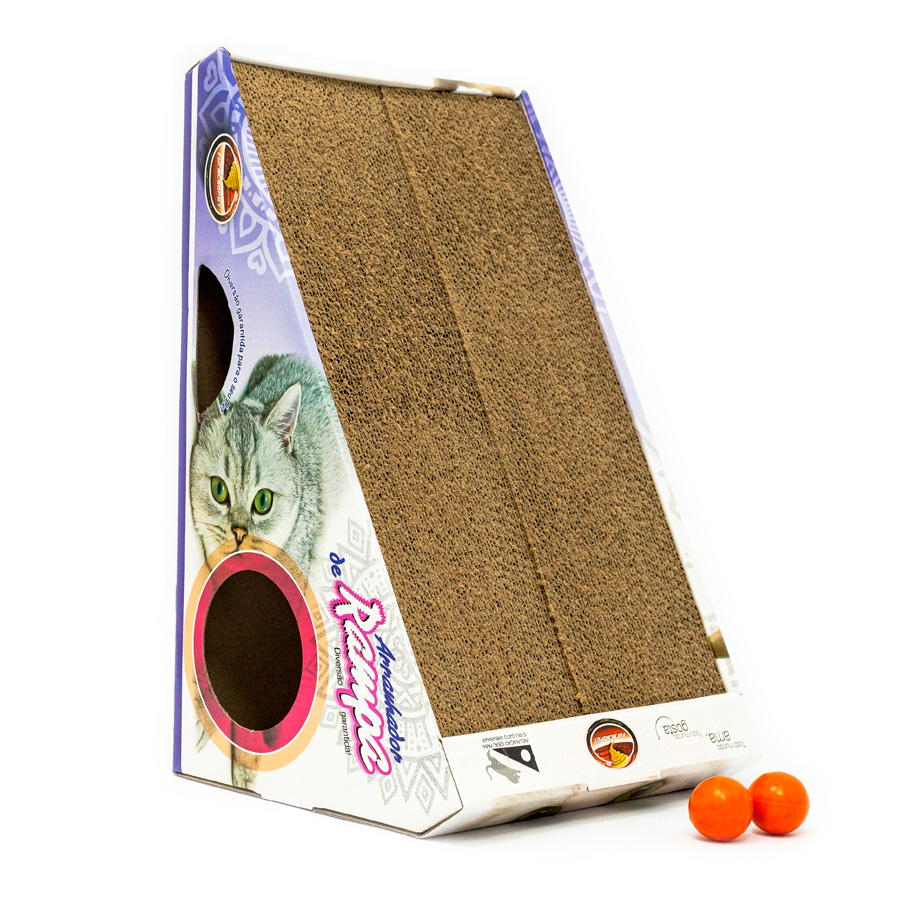
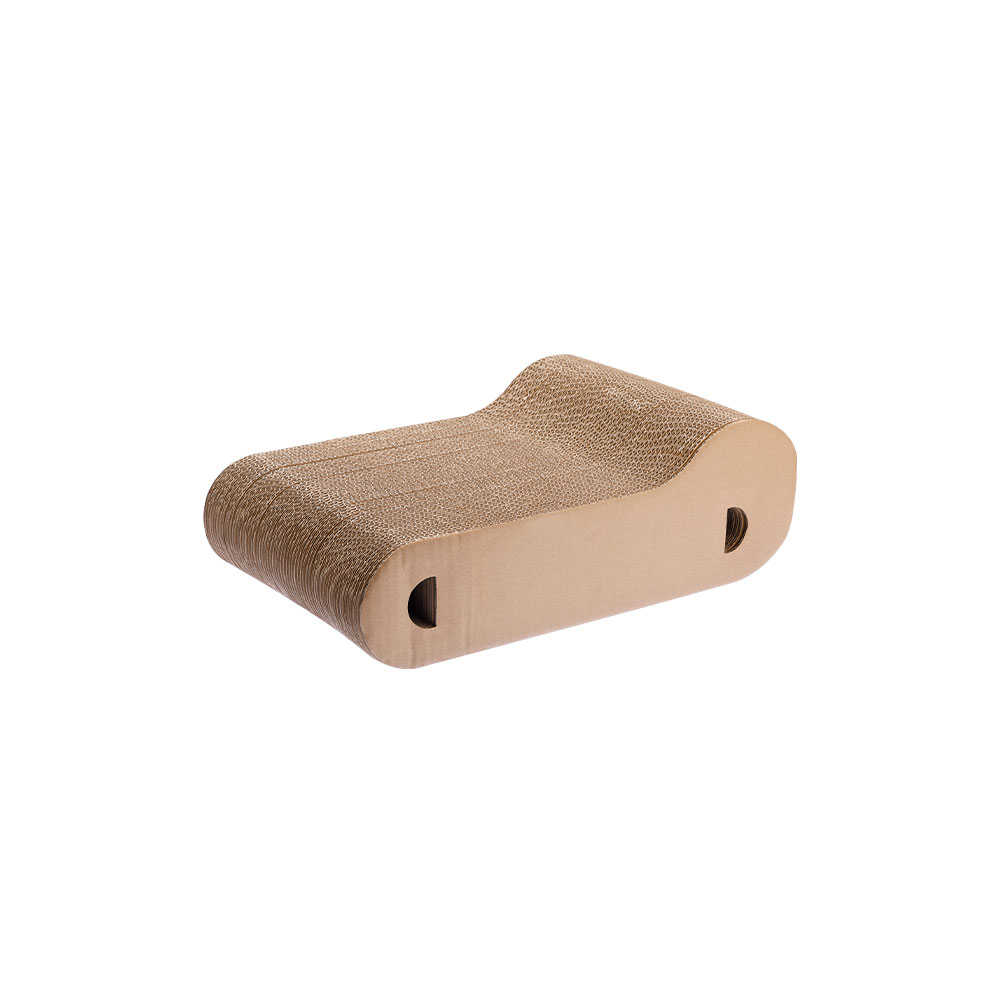
feat: add cores e fontes

diff --git a/style/style.css b/style/style.css
@@ -2,10 +2,21 @@ body {
     margin: 0px;
 }
 
+/*Atribindo fontes especificas ao projeto*/
+@font-face{
+    font-family: "Alice";
+    src: url("../fonts/Alice/Alice-Regular.ttf");
+}
+
+@font-face{
+    font-family: "Roca-Two";
+    src: url("../fonts/roca-two-regular-maisfontes.e2ac/roca-two-regular.ttf");
+}
+
 /*Seção de Serviços*/
 .servicos-container {
     height: 70vh;
-    background-color: #f7d8ff;
+    background-color: #e2a9f1;
     padding-bottom: 10px;
     padding-left: 40px;
     padding-right: 40px;
@@ -18,6 +29,10 @@ body {
 }
 
 .title-servicos {
+    font-family: "Roca-Two";
+    font-size: 40px;
+    font-weight: bold;
+    color: #a94b7c;
     margin: 0px;
     display: flex;
     justify-content: center;
@@ -69,13 +84,18 @@ body {
     justify-content: center;
 }
 
-.card-text-container p {
+.card-text {
     text-align: justify;
     margin: 10px;
+    font-family: "Alice";
+    font-size: 20px;
 }
 
 .card-title {
-    font-weight: bold;
+    text-align: justify;
+    margin: 10px;
+    font-family: "Roca-Two";
+    font-size: 40px;
 }
 
 /*Botões utilizados para passar o carrossel*/
@@ -101,7 +121,7 @@ body {
 
 .produtos-container {
     height: 120vh;
-    background-color: rgb(95, 95, 95);
+    background-color: #f7d8ff;
     padding-bottom: 10px;
     padding-left: 40px;
     padding-right: 40px;
@@ -114,6 +134,10 @@ body {
 }
 
 .title-produtos {
+    font-family: "Roca-Two";
+    font-size: 40px;
+    font-weight: bold;
+    color: #a94b7c;
     margin: 0px;
     display: flex;
     justify-content: center;
@@ -122,6 +146,8 @@ body {
 
 .subtitle-produtos {
     align-self: flex-start; /*move o subtitulo para a esquerda */
+    font-family: "Roca-Two";
+    font-size: 25px;
     margin-top: 30px;
     margin-bottom: 10px;
 }
@@ -163,14 +189,20 @@ body {
 }
 
 .card-produto img {
+    margin: 10px;
     height: 70%;
     width: 100%;
     object-fit: cover;
 }
 
+.card-produto p {
+    font-family: "Roca-Two";
+    font-size: 20px;
+}
+
 .parceiros-container {
     height: 40vh;
-    background-color: #f7d8ff;
+    background-color: #e2a9f1;
     padding-bottom: 10px;
     padding-left: 40px;
     padding-right: 40px;
@@ -210,4 +242,15 @@ body {
     height: 80%;
     width: 80%;
     object-fit: cover;
+}
+
+.title-parceiros {
+    font-family: "Roca-Two";
+    font-size: 40px;
+    font-weight: bold;
+    color: #a94b7c;
+    margin: 0px;
+    display: flex;
+    justify-content: center;
+    align-items: center;
 }

diff --git a/index.html b/index.html
@@ -26,7 +26,7 @@
                 </div>
                 <div class="card-text-container">
                     <p class="card-title">Banho</p>
-                    <p>
+                    <p class="card-text">
                         Higiene completa para o seu pet com produtos de qualidade,
                         secagem cuidadosa e muito carinho durante todo o atendimento.
                     </p>
@@ -40,7 +40,7 @@
                 </div>
                 <div class="card-text-container">
                     <p class="card-title">Fisioterapia</p>
-                    <p>
+                    <p class="card-text">
                         Tratamentos personalizados para auxiliar na recuperação,
                         mobilidade e bem-estar do seu pet.
                     </p>
@@ -85,7 +85,7 @@
             </div>
         </div>
         <h3 class="subtitle-produtos">
-            Para Cachorros
+            Para Cães
         </h3>
         <div class="produtos-cards-container-cachorro">
             <div class="card-produto">